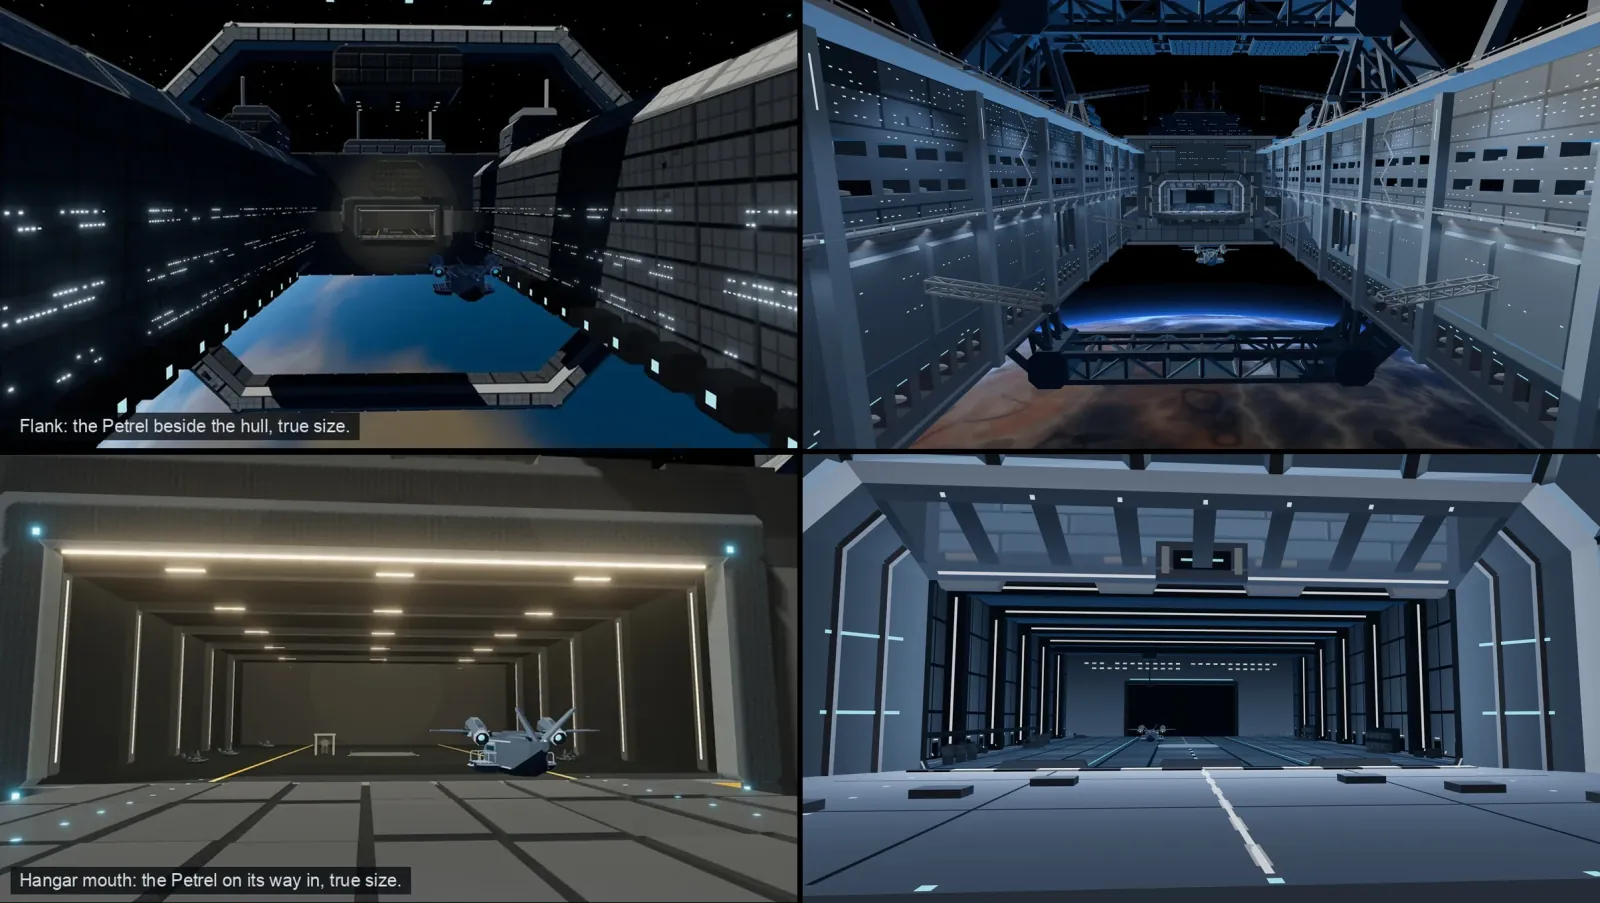
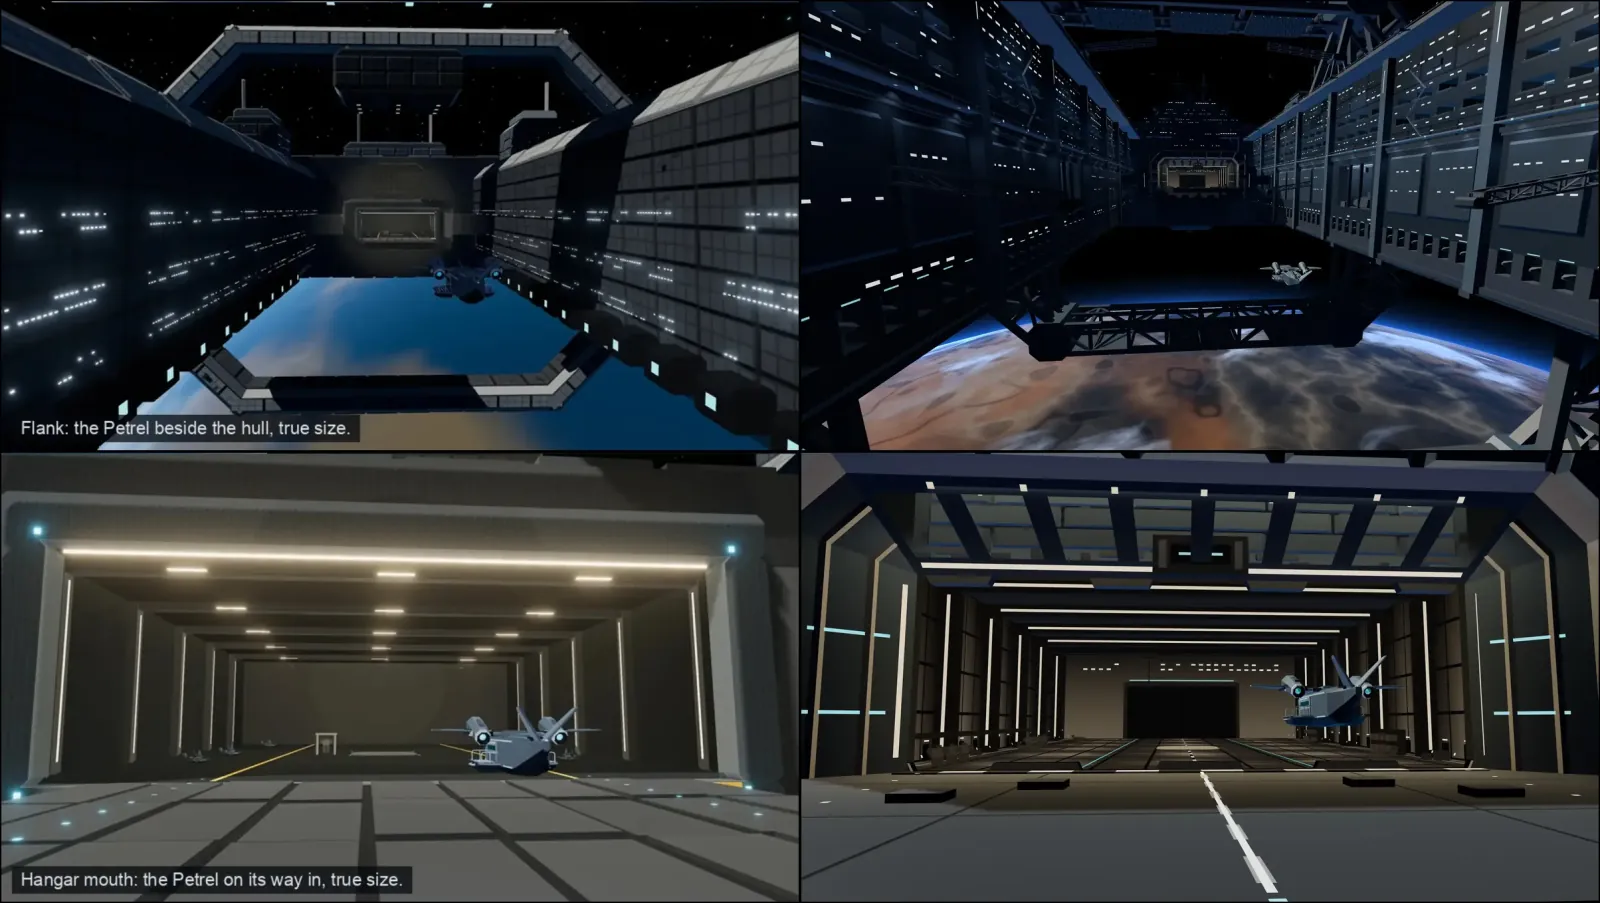
review page v49: Steel Tide: to review

diff --git a/d/steel-tide-clips-bb00109a/index.html b/d/steel-tide-clips-bb00109a/index.html
@@ -4,23 +4,23 @@
 <style>body{margin:0;background:#0d1117;color:#e6edf3;font:16px/1.5 -apple-system,system-ui,sans-serif}main{max-width:900px;margin:0 auto;padding:16px}h1{font-size:20px;margin:8px 0 4px}h2{font-size:17px;margin:34px 0 6px}p{margin:4px 0 10px;color:#9da7b3;font-size:14px}video,img{width:100%;height:auto;background:#000;border-radius:6px;display:block;margin-top:6px}a.b{display:inline-block;margin:8px 8px 0 0;padding:10px 14px;border:1px solid #3d444d;border-radius:6px;color:#e6edf3;text-decoration:none;font-size:14px}.t{font-size:12px;font-weight:400;color:#0d1117;background:#9da7b3;border-radius:10px;padding:2px 8px;margin-left:6px;vertical-align:middle}p.d{color:#7cb7ff;font-size:13px;margin:0 0 6px}nav small{color:#9da7b3;margin-left:6px}p b{color:#e6edf3}nav a{display:block;padding:7px 0;color:#7cb7ff;text-decoration:none;font-size:14px;border-bottom:1px solid #21262d}</style></head>
 <body><main>
 <h1>Steel Tide: to review</h1>
-<p>Version 48, 11-18 3:03 PM. New: the hangar layouts need your pick (A, B, C or D), and the Cradle mothership model beside your sketch. Newest first. Total 21.2 MB.</p>
-<nav><a href="#cradle-hull-vs-sketch">The Cradle mothership: your sketch against the model so far <small>11-18 2:50 PM</small></a><a href="#hangar-layouts">NEEDS YOUR PICK: the hangar layout (A, B, C or D) <small>11-18 2:20 PM</small></a><a href="#mothership-directions">New mothership: four directions, you choose <small>11-18 1:13 PM</small></a><a href="#island-fliers-low">Red fliers over the island: fewer, and they creep instead of parking <small>11-18 12:30 AM</small></a><a href="#sand-footprints">Footprints in the sand <small>11-17 11:50 PM</small></a><a href="#crowd-ai">Melee enemies take turns instead of piling on <small>11-17 11:14 PM</small></a><a href="#pilot-swim">Pilot swim animation <small>11-17 9:48 PM</small></a><a href="#tree-camera-fade">Trees thin out when they block your view <small>11-17 8:10 PM</small></a><a href="#pilot-shoulder-jitter">Pilot shoulder no longer jitters <small>11-17 7:50 PM</small></a><a href="#drone-gun-spin">Drone gun spins and flashes when it fires <small>11-17 7:45 PM</small></a><a href="#rocket-sentry-seated">Rocket sentry: the pilot sits in it, hands on the handle <small>11-17 1:45 PM</small></a><a href="#horde-pilot-zoom">NEEDS YOUR CALL: island Horde, camera zooms in when you are on foot <small>11-17 1:30 PM</small></a><a href="#dash-recover-quick">Pilot dash: faster return to stance (clip, old above new) <small>11-17 12:35 PM</small></a><a href="#range-mech-turn-stop-close">Test range: the mech&#x27;s turn and stop, close up <small>11-17 12:25 AM</small></a></nav>
-<section id="cradle-hull-vs-sketch"><h2>The Cradle mothership: your sketch against the model so far <span class="t">built, not live: round 3 is fixing the light</span></h2>
-<p class="d">Updated 11-18 2:50 PM ET &middot; captured from lane build 30a8d053b1 (round 2)</p>
-<p><b>What changed:</b> Round 2 added the gate, the bay, ports and the mount for the existing drop pod cannon. It still scored 5 to 6 of 9: the shapes are there, the light is too pale and even.</p>
-<p><b>Where to look:</b> Left column is your sketch, right column is the model. Compare the dark hull with bright ports and the warm hangar on the left with the pale blue model on the right.</p>
+<p>Version 49, 11-18 3:16 PM. New: the Cradle mothership after the light pass (round 3), beside your sketch. Newest first. Total 21.2 MB.</p>
+<nav><a href="#cradle-hull-vs-sketch">The Cradle mothership: your sketch against the model so far <small>11-18 3:20 PM</small></a><a href="#hangar-layouts">Hangar layouts, round 1 (replaced: round 2 will add a station for every menu) <small>11-18 2:20 PM</small></a><a href="#mothership-directions">New mothership: four directions, you choose <small>11-18 1:13 PM</small></a><a href="#island-fliers-low">Red fliers over the island: fewer, and they creep instead of parking <small>11-18 12:30 AM</small></a><a href="#sand-footprints">Footprints in the sand <small>11-17 11:50 PM</small></a><a href="#crowd-ai">Melee enemies take turns instead of piling on <small>11-17 11:14 PM</small></a><a href="#pilot-swim">Pilot swim animation <small>11-17 9:48 PM</small></a><a href="#tree-camera-fade">Trees thin out when they block your view <small>11-17 8:10 PM</small></a><a href="#pilot-shoulder-jitter">Pilot shoulder no longer jitters <small>11-17 7:50 PM</small></a><a href="#drone-gun-spin">Drone gun spins and flashes when it fires <small>11-17 7:45 PM</small></a><a href="#rocket-sentry-seated">Rocket sentry: the pilot sits in it, hands on the handle <small>11-17 1:45 PM</small></a><a href="#horde-pilot-zoom">NEEDS YOUR CALL: island Horde, camera zooms in when you are on foot <small>11-17 1:30 PM</small></a><a href="#dash-recover-quick">Pilot dash: faster return to stance (clip, old above new) <small>11-17 12:35 PM</small></a><a href="#range-mech-turn-stop-close">Test range: the mech&#x27;s turn and stop, close up <small>11-17 12:25 AM</small></a></nav>
+<section id="cradle-hull-vs-sketch"><h2>The Cradle mothership: your sketch against the model so far <span class="t">built, not live: round 3, scores 5 to 7 of 10</span></h2>
+<p class="d">Updated 11-18 3:20 PM ET &middot; captured from lane build a0a1091826 (round 3)</p>
+<p><b>What changed:</b> Round 3 fixed the light: dark hull, bright rows of ports, a warm lit hangar mouth. The hangar frame now beats the sketch; the flank frame does not yet.</p>
+<p><b>Where to look:</b> First image: your sketch on the left, the model on the right. Second image: all cameras; the weak ones are the view from below and the closed gate.</p>
 <img loading="lazy" src="cradle-hull-vs-sketch-1.webp" alt="The Cradle mothership: your sketch against the model so far">
 <img loading="lazy" src="cradle-hull-vs-sketch-2.webp" alt="The Cradle mothership: your sketch against the model so far"></section>
-<section id="hangar-layouts"><h2>NEEDS YOUR PICK: the hangar layout (A, B, C or D) <span class="t">needs your decision</span></h2>
+<section id="hangar-layouts"><h2>Hangar layouts, round 1 (replaced: round 2 will add a station for every menu) <span class="t">replaced: waiting for your approval of the station list</span></h2>
 <p class="d">Updated 11-18 2:20 PM ET &middot; captured from sketches, not in the game</p>
-<p><b>What changed:</b> Four layouts for the walkable hangar between matches, each to true scale with the Petrel and the pilot.</p>
+<p><b>What changed:</b> You ruled the main menu is retired and every menu becomes a walk-to station; these four sketches predate that and show 4 pods (wrong: 3 players).</p>
 <p><b>Where to look:</b> First image: all four side by side. Then one sheet each: A Long Deck, B Gallery, C Carousel, D Lock and Lift.</p>
-<img loading="lazy" src="hangar-layouts-1.webp" alt="NEEDS YOUR PICK: the hangar layout (A, B, C or D)">
-<img loading="lazy" src="hangar-layouts-2.webp" alt="NEEDS YOUR PICK: the hangar layout (A, B, C or D)">
-<img loading="lazy" src="hangar-layouts-3.webp" alt="NEEDS YOUR PICK: the hangar layout (A, B, C or D)">
-<img loading="lazy" src="hangar-layouts-4.webp" alt="NEEDS YOUR PICK: the hangar layout (A, B, C or D)">
-<img loading="lazy" src="hangar-layouts-5.webp" alt="NEEDS YOUR PICK: the hangar layout (A, B, C or D)"></section>
+<img loading="lazy" src="hangar-layouts-1.webp" alt="Hangar layouts, round 1 (replaced: round 2 will add a station for every menu)">
+<img loading="lazy" src="hangar-layouts-2.webp" alt="Hangar layouts, round 1 (replaced: round 2 will add a station for every menu)">
+<img loading="lazy" src="hangar-layouts-3.webp" alt="Hangar layouts, round 1 (replaced: round 2 will add a station for every menu)">
+<img loading="lazy" src="hangar-layouts-4.webp" alt="Hangar layouts, round 1 (replaced: round 2 will add a station for every menu)">
+<img loading="lazy" src="hangar-layouts-5.webp" alt="Hangar layouts, round 1 (replaced: round 2 will add a station for every menu)"></section>
 <section id="mothership-directions"><h2>New mothership: four directions, you choose <span class="t">decided: you picked C, the Cradle</span></h2>
 <p class="d">Updated 11-18 1:13 PM ET &middot; captured from direction sketches, not in the game</p>
 <p><b>What changed:</b> First look: four different hull ideas for the big mothership the extraction craft docks inside (A Longdeck, B Bastion, C Cradle, D Spire). Sketches only; nothing is modelled until you pick.</p>
